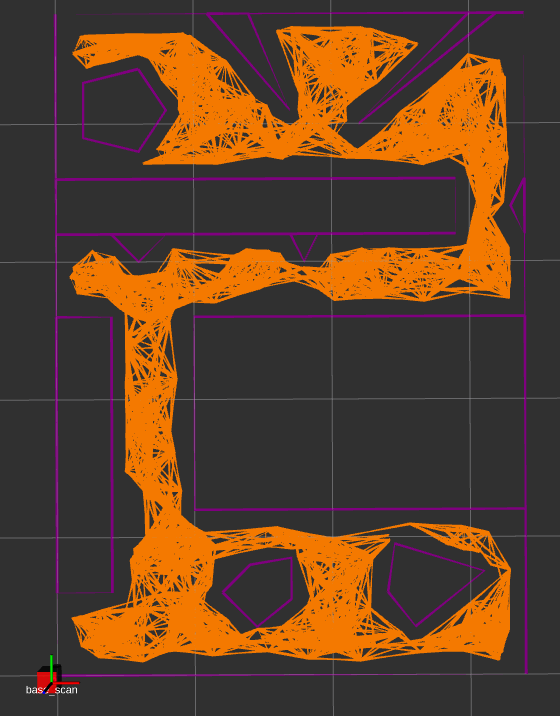
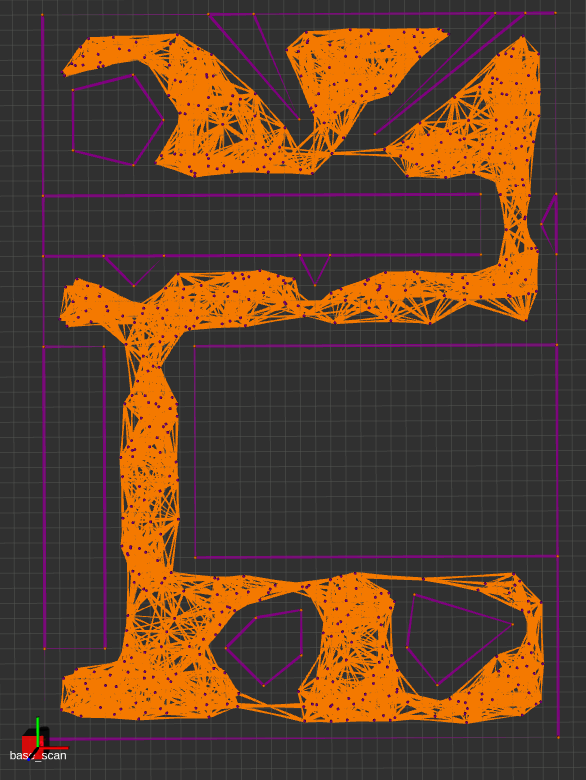
modified buffer checking code for PRM and added spheres for clarity. updated .png

Changed region(s): [[0.0, 0.0, 0.9714, 0.9832], [0.8196, 0.5223, 0.85, 0.5838], [0.5768, 0.5531, 0.6071, 0.5838]]

diff --git a/map/src/viz_map.cpp b/map/src/viz_map.cpp
@@ -106,10 +106,12 @@ int main(int argc, char** argv)
 
   // Initialize Marker
   // Init Marker Array Publisher
-  ros::Publisher marker_pub = nh.advertise<visualization_msgs::MarkerArray>("viz_map", 1);
+  ros::Publisher line_pub = nh.advertise<visualization_msgs::MarkerArray>("line_map", 1);
+  ros::Publisher sph_pub = nh.advertise<visualization_msgs::MarkerArray>("sph_map", 1);
 
   // Init Marker Array
-  visualization_msgs::MarkerArray marker_arr;
+  visualization_msgs::MarkerArray line_arr;
+  visualization_msgs::MarkerArray sph_arr;
 
   // Init Marker
   visualization_msgs::Marker marker;
@@ -131,22 +133,37 @@ int main(int argc, char** argv)
   marker.color.a = 1.0;
   marker.lifetime = ros::Duration();
 
+  visualization_msgs::Marker sph_mkr;
+  sph_mkr = marker;
+  sph_mkr.type = visualization_msgs::Marker::SPHERE;
+  sph_mkr.scale.x = 0.02;
+  sph_mkr.scale.y = 0.02;
+  sph_mkr.scale.z = 0.02;
+
   // Color based on map_type
   if (map_type == "map")
   {
     marker.color.r = 0.5f;
     marker.color.g = 0.0f;
     marker.color.b = 0.5f;
+    sph_mkr.color.r = 0.96f;
+    sph_mkr.color.g = 0.475f;
+    sph_mkr.color.b = 0.0f;
   } else if (map_type == "prm")
   {
     marker.color.r = 0.96f;
     marker.color.g = 0.475f;
     marker.color.b = 0.0f;
+    sph_mkr.color.r = 0.5f;
+    sph_mkr.color.g = 0.0f;
+    sph_mkr.color.b = 0.5f;
   }
 
   // LINE_STRIP relative to this pose
   marker.pose.position.x = 0.0;
   marker.pose.position.y = 0.0;
+
+  int sph_mkr_id = 0;
 
   if (map_type == "map")
   {
@@ -166,6 +183,13 @@ int main(int argc, char** argv)
         new_vertex.y = v_iter->y;
         new_vertex.z = 0.0;
         marker.points.push_back(new_vertex);
+        
+        // Also push back cylinders
+        sph_mkr.pose.position.x = v_iter->x;
+        sph_mkr.pose.position.y = v_iter->y;
+        sph_mkr.id = sph_mkr_id;
+        sph_mkr_id++;
+        sph_arr.markers.push_back(sph_mkr);
       }
       // Before pushing back, connect last vertex to first vertex
       geometry_msgs::Point new_vertex;
@@ -173,7 +197,7 @@ int main(int argc, char** argv)
       new_vertex.y = obs_iter->vertices.at(0).y;
       new_vertex.z = 0.0;
       marker.points.push_back(new_vertex);
-      marker_arr.markers.push_back(marker);
+      line_arr.markers.push_back(marker);
     }
   } else if (map_type == "prm")
   {
@@ -207,9 +231,16 @@ int main(int argc, char** argv)
           new_vertex.y = neighbor_iter.coords.y;
           new_vertex.z = 0.0;
           marker.points.push_back(new_vertex);
+
+          // Also push back cylinders
+          sph_mkr.pose.position.x = node_iter->coords.x;
+          sph_mkr.pose.position.y = node_iter->coords.y;
+          sph_mkr.id = sph_mkr_id;
+          sph_mkr_id++;
+          sph_arr.markers.push_back(sph_mkr);
         }
         // Push to Marker Array
-        marker_arr.markers.push_back(marker);
+        line_arr.markers.push_back(marker);
       }
     }
   }
@@ -222,7 +253,8 @@ int main(int argc, char** argv)
   	ros::spinOnce();
 
     // Publish Map
-    marker_pub.publish(marker_arr);
+    line_pub.publish(line_arr);
+    sph_pub.publish(sph_arr);
 
     rate.sleep();
   }

diff --git a/map/src/map/prm.cpp b/map/src/map/prm.cpp
@@ -187,14 +187,6 @@ namespace map
 				auto B = obs_iter->vertices.at(i);
 				auto P = q;
 
-				// First, check if a potential Vertex is too close to an obstacle Edge
-				Vertex A_vtx(A);
-				Vertex B_vtx(B);
-				if ((too_close(A_vtx, B_vtx, P, inflate_robot)))
-				{
-					return false;
-				}
-
 				// u is perpendicular to AB. flip xs and ys and negate one component
 				// NOTE: if we have {x,y} --> {y, -x} = RHS perp. (outward normal) | {-y, x} = LHS perp. (inward normal)
 				// inward normal
@@ -218,8 +210,9 @@ namespace map
 				// if d > 0, P is on the left of AB, if d = 0, P is ON AB, if d < 0, P is on the right of AB
 				double d = D.dot(n);
 
-				if (d < 0.0)
-					// P is on the right side of at least one edge, not necessarily on obstacle
+				if (d < - inflate_robot)
+					// P is on the right side of at least one edge PLUS buffer, not necessarily on obstacle
+					// Only way this can be an obstacle now is if it's ON and edge (next condition)
 				{
 					on_all_left = false;
 				} else if (rigid2d::almost_equal(d, 0.0))
